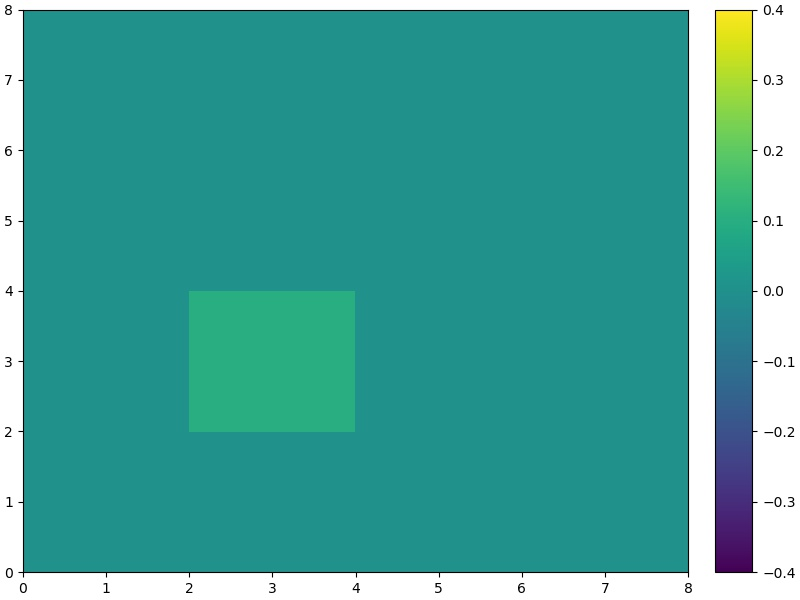
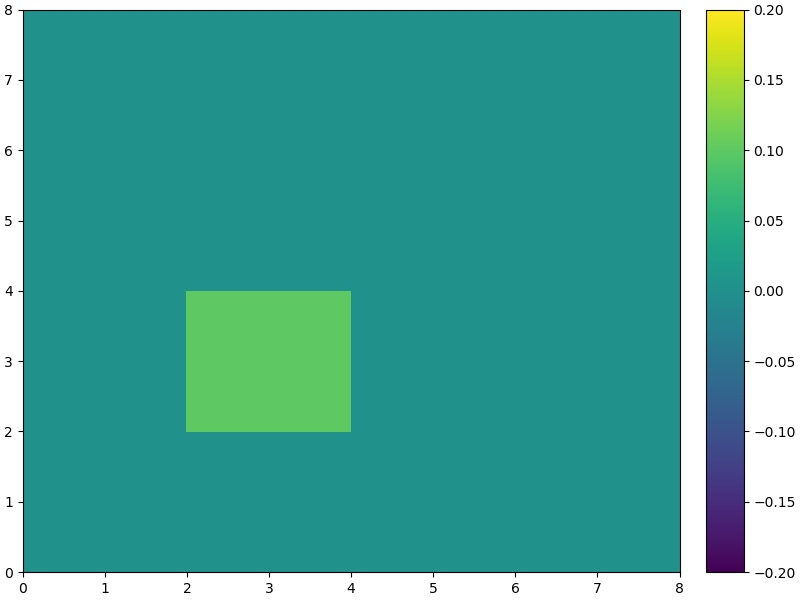
Changed scale for QUICK grad plot

diff --git a/custom_apps/tf_cuda_gradients.py b/custom_apps/tf_cuda_gradients.py
@@ -141,10 +141,10 @@ class CUDAFlow(App):
         velocity_v_tensor_padded = tf.Variable(velocity_v_field.padded(2).data)
         velocity_u_tensor_padded = tf.Variable(velocity_u_field.padded(2).data)
         target = tf.constant(self._get_target_field().data)
-        plot_grid(density.data[0], "tf_cuda_grad/tf_cuda_init_rho.jpg", -0.4, 0.4)
-        plot_grid(velocity_v_field.data[0], "tf_cuda_grad/tf_cuda_init_v.jpg", -0.4, 0.4)
-        plot_grid(velocity_u_field.data[0], "tf_cuda_grad/tf_cuda_init_u.jpg", -0.4, 0.4)
-        plot_grid(self._get_target_field().data[0], "tf_cuda_grad/tf_cuda_target.jpg", -0.4, 0.4)
+        plot_grid(density.data[0], "tf_cuda_grad/tf_cuda_init_rho.jpg", -0.2, 0.2)
+        plot_grid(velocity_v_field.data[0], "tf_cuda_grad/tf_cuda_init_v.jpg", -0.2, 0.2)
+        plot_grid(velocity_u_field.data[0], "tf_cuda_grad/tf_cuda_init_u.jpg", -0.2, 0.2)
+        plot_grid(self._get_target_field().data[0], "tf_cuda_grad/tf_cuda_target.jpg", -0.2, 0.2)
         # Computation
         rho_adv = tf_cuda_quick_advection(density_tensor, density_tensor_padded, velocity_u_tensor_padded, velocity_v_tensor_padded, dt, dim, field_type="density")
         y = target - rho_adv
